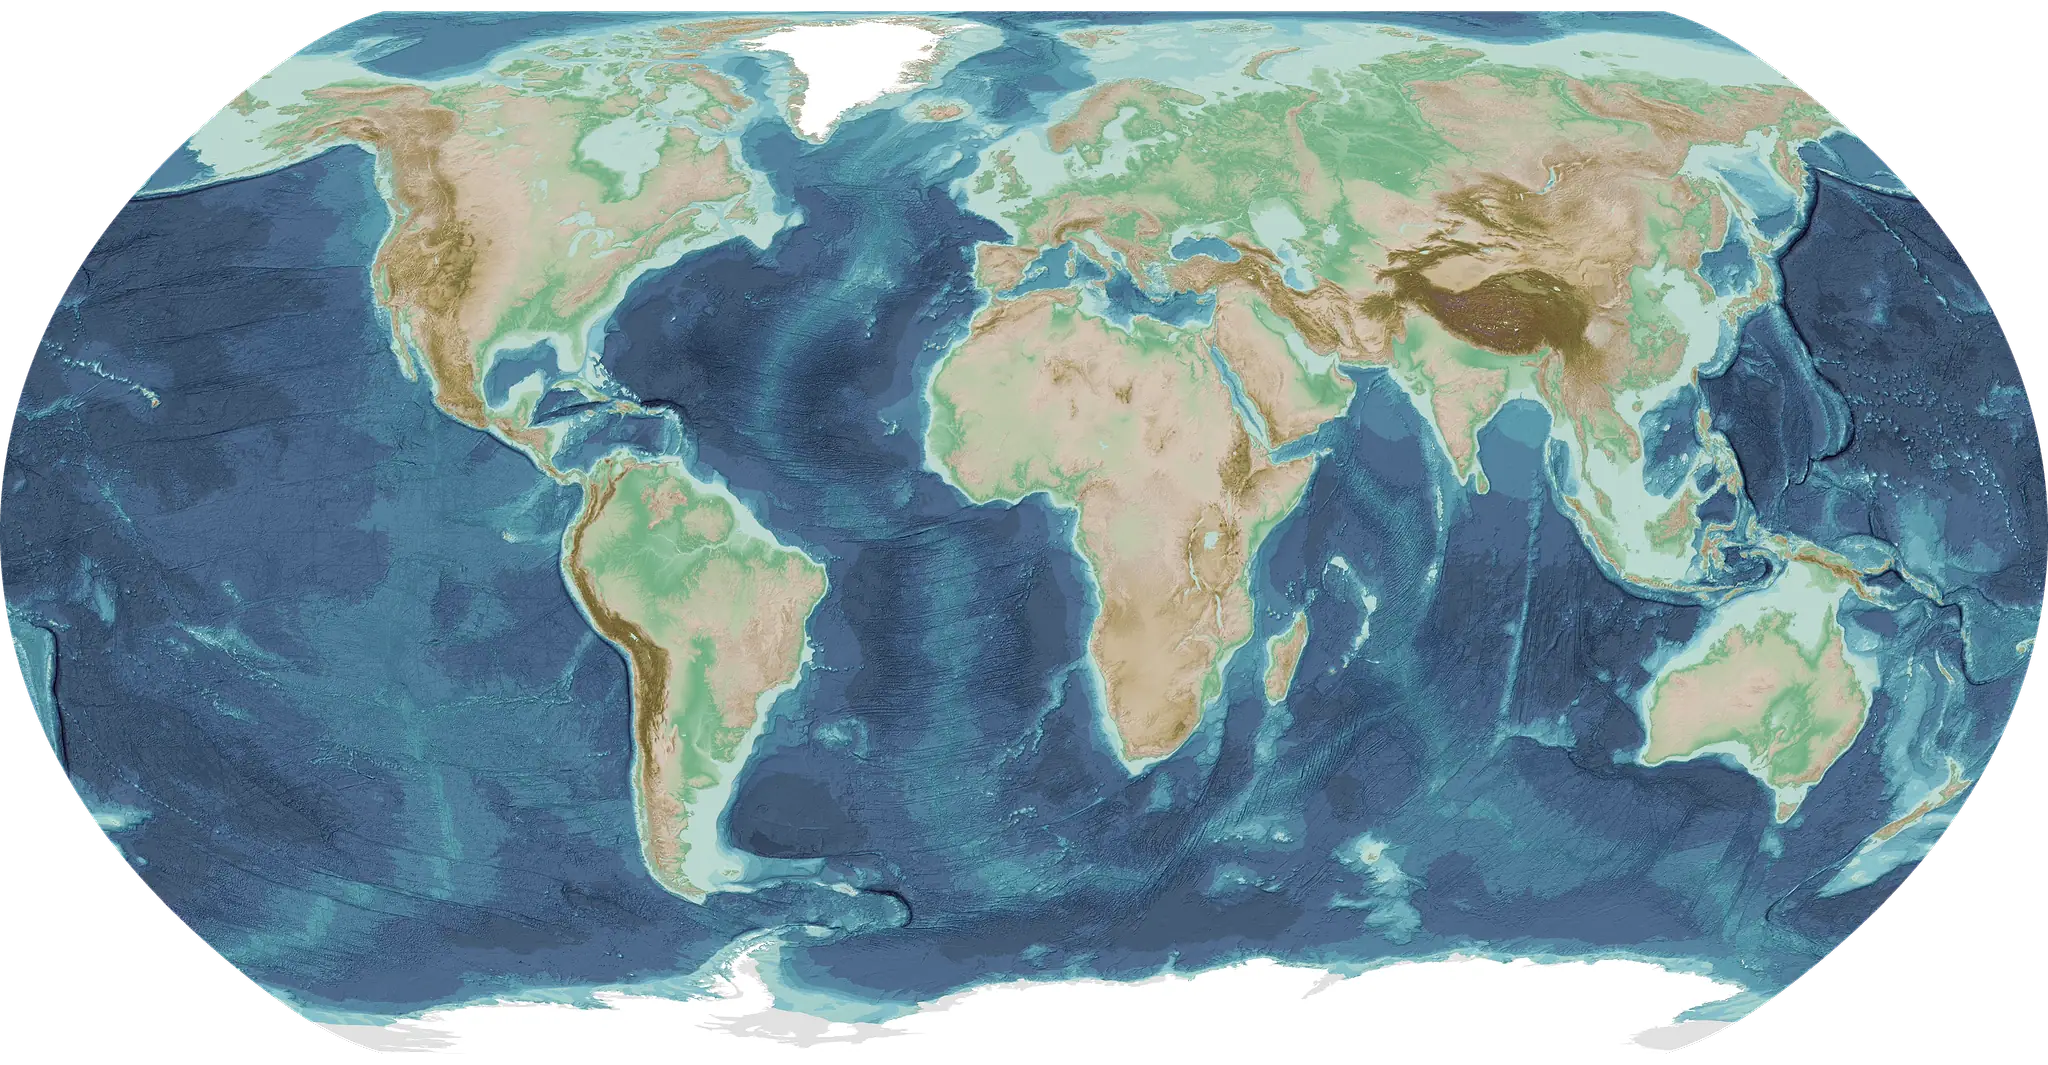
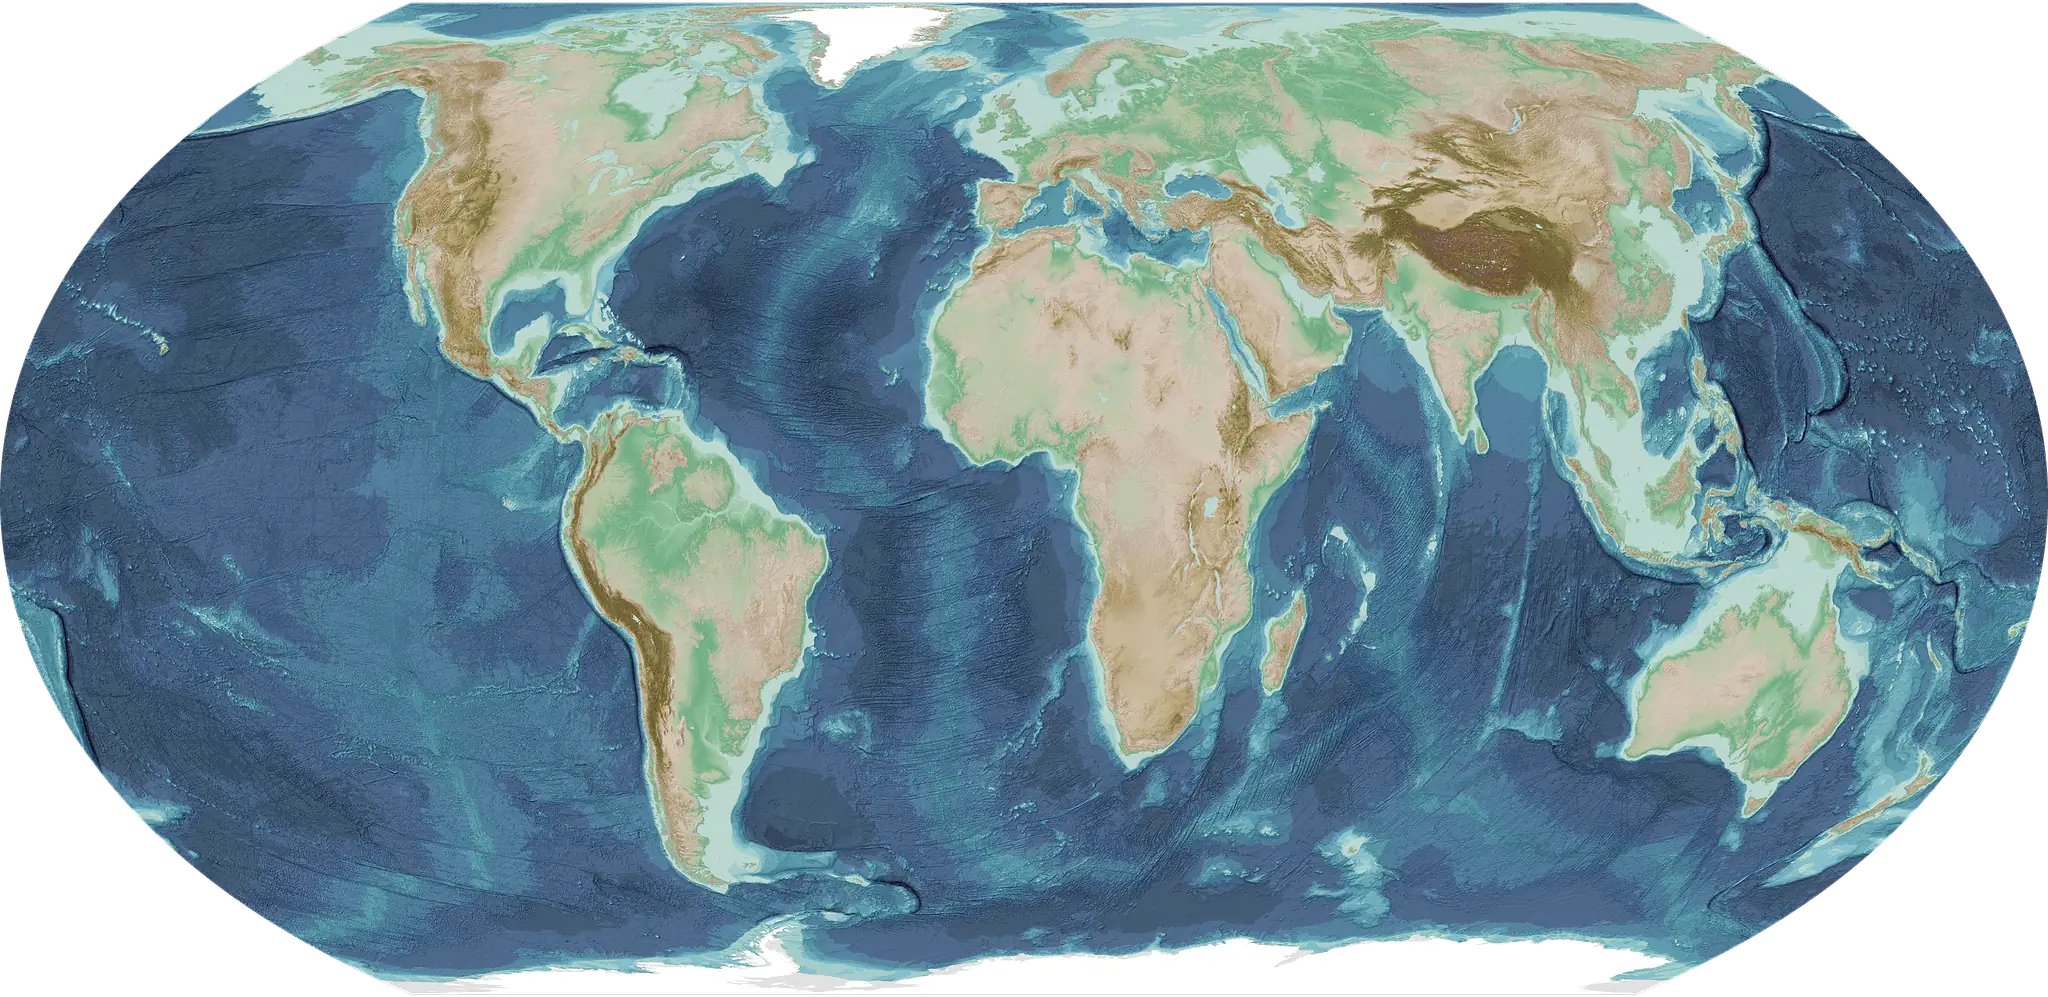
feat(map): draw the flat map in Equal Earth

diff --git a/src/frontend/src/lib/bathymetry.ts b/src/frontend/src/lib/bathymetry.ts
@@ -1,9 +1,9 @@
-import { geoNaturalEarth1, geoPath, type GeoProjection } from 'd3-geo';
+import { geoEqualEarth, geoPath, type GeoProjection } from 'd3-geo';
 import type { Pal } from './palette';
 
 // Rasters baked by scripts/build-bathymetry.mjs.
 //
-// Flat: geoNaturalEarth1 only ever varies by scale and translate, so every pan
+// Flat: geoEqualEarth only ever varies by scale and translate, so every pan
 // and zoom is an exact similarity transform of one fixed image -- a single
 // drawImage, no per-pixel work. Past about k=4 it upscales the base, so a 2x
 // level is tiled over it, only where the viewport looks.
@@ -144,7 +144,7 @@ export class Bathymetry {
   // Sends for what paint() would draw, without drawing it.
   prefetch(pr: GeoProjection, globe: boolean, dpr: number): void {
     if (globe) this.equirect();
-    else this.flat(pr.scale() * NE_SPAN * dpr);
+    else this.flat(pr.scale() * FLAT_SPAN * dpr);
   }
 
   clear(): void {
@@ -192,7 +192,7 @@ export class Bathymetry {
     H: number,
     dpr: number,
   ): void {
-    const img = this.flat(pr.scale() * NE_SPAN * dpr);
+    const img = this.flat(pr.scale() * FLAT_SPAN * dpr);
     const ref = this.flatRef;
     if (!img || !ref) return;
 
@@ -579,18 +579,18 @@ function saveData(): boolean {
   return !!(nav as { connection?: { saveData?: boolean } } | undefined)?.connection?.saveData;
 }
 
-const NE = geoNaturalEarth1().scale(1).translate([0, 0]);
-const [[NE_X0, NE_Y0], [NE_X1]] = geoPath(NE).bounds({ type: 'Sphere' });
+const FLAT_PROJ = geoEqualEarth().scale(1).translate([0, 0]);
+const [[FLAT_X0, FLAT_Y0], [FLAT_X1]] = geoPath(FLAT_PROJ).bounds({ type: 'Sphere' });
 // The sphere's width at scale 1, so its drawn width is this times the scale.
-const NE_SPAN = NE_X1 - NE_X0;
+const FLAT_SPAN = FLAT_X1 - FLAT_X0;
 
 // Where the reference points land in the baked raster, which covers the sphere's
-// Natural Earth bounding box exactly and is fitted to width.
+// Equal Earth bounding box exactly and is fitted to width.
 function flatRefs(width: number): [number, number][] {
-  const s = width / NE_SPAN;
+  const s = width / FLAT_SPAN;
   return REF.map((ll) => {
-    const q = NE(ll) as [number, number];
-    return [(q[0] - NE_X0) * s, (q[1] - NE_Y0) * s];
+    const q = FLAT_PROJ(ll) as [number, number];
+    return [(q[0] - FLAT_X0) * s, (q[1] - FLAT_Y0) * s];
   });
 }
 

diff --git a/src/frontend/src/lib/projection.ts b/src/frontend/src/lib/projection.ts
@@ -1,7 +1,7 @@
 import {
   geoBounds,
   geoDistance,
-  geoNaturalEarth1,
+  geoEqualEarth,
   geoOrthographic,
   type GeoProjection,
 } from 'd3-geo';
@@ -40,7 +40,7 @@ export const ZOOM_BTN = 1.6;
 // this one scaled about the origin, which is what makes a fit a ratio rather
 // than a search.
 const flatBase = (w: number, h: number): GeoProjection =>
-  geoNaturalEarth1().fitExtent(
+  geoEqualEarth().fitExtent(
     [
       [10, 18],
       [w - 10, h - 18],
@@ -147,7 +147,7 @@ export function frameFor(
     return { k, rot: [-c[0], d - c[1]] };
   }
 
-  // Natural Earth is cut at the antimeridian, so a set straddling it really
+  // The flat map is cut at the antimeridian, so a set straddling it really
   // does span the sheet and no centre draws it together -- which is why the
   // flat fit is measured in projected px rather than in degrees. It is also
   // exact for a projection whose parallels are not evenly spaced.
